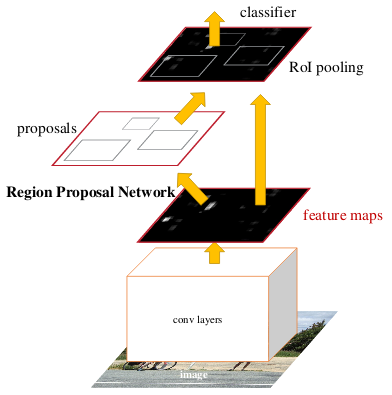
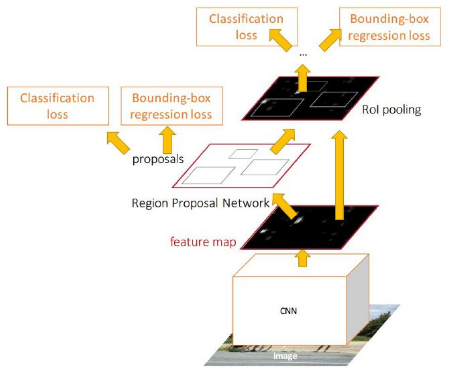
chore: Update faster rcnn info in post

Changed region(s): [[0.0, 0.0, 1.0, 1.0]]

diff --git a/_posts/2019-08-23-quick-intro-to-instance-segmentation.md b/_posts/2019-08-23-quick-intro-to-instance-segmentation.md
@@ -21,15 +21,45 @@ Before getting into Mask R-CNN, let's take a look at Faster R-CNN.
 
 ## Faster R-CNN
 
-Faster R-CNN consists of two stages. The *first stage* is a deep convolutional network with **Region Proposal Network (RPN)**, which proposes regions of interest (ROI) from the feature maps output by the convolutional neural network. The CNN used in this case, often called **backbone**, is usually a pretrained network such as ResNet101. The classification layers from the backbone network are removed so as to used it as a feature extractor. This also makes the network fully convolutional, thus it can take any input size image.
+Faster R-CNN consists of two stages.
 
-The RPN uses a sliding window method to get relevant anchor boxes *(the fixed sized boundary boxes that are placed throughout the image and have different shapes and sizes so as to save the time to search)* from the feature maps. It then does a binary classification that the anchor has object or not (into classes fg or bg), and bounding box regression to refine bounding boxes. The anchor is classified as positive label (fg class) if the anchor(s) has highest Intersection-over-Union (IoU) with the ground truth box, or, it has IoU overlap greater than 0.7 with the ground truth. 
+### Stage I
+
+The *first stage* is a deep convolutional network with **Region Proposal Network (RPN)**, which proposes regions of interest (ROI) from the feature maps output by the convolutional neural network i.e.
+
+The input image is fed into a CNN, often called **backbone**, which is usually a pretrained network such as ResNet101. The classification (fully connected) layers from the backbone network are removed so as to use it as a feature extractor. This also makes the network fully convolutional, thus it can take any input size image.
+
+<img src="/img/remove_fc_layers.png" style="display: block; margin: auto; width: auto; max-width: 100%;">
+
+The RPN uses a sliding window method to get <abbr title="boxes having high probability of containing object">relevant anchor boxes</abbr> *(the precalculated fixed sized bounding boxes having different sizes that are placed throughout the image that represent the approximate bbox predictions so as to save the time to search)* from the feature maps. 
+
+It then does a binary classification that the anchor has object or not (into classes <abbr title="foreground">fg</abbr> or <abbr title="background">bg</abbr>), and bounding box regression to refine bounding boxes. The anchor is classified as positive label (fg class) if the anchor(s) has highest Intersection-over-Union (IoU) with the ground truth box, or, it has IoU overlap greater than 0.7 with the ground truth.
+
+> At each sliding window location, a number of proposals (max `k`) are predicted corresponding to anchor boxes. So the `reg` layer has `4k` outputs encoding the coordinates of `k` boxes, and the `cls` layer outputs `2k` scores that estimate probability of *object* or *not object* for each proposal.
+
+<img src="/img/rpn.png" style="display: block; margin: auto; width: auto; max-width: 100%;">
+
+> In Faster R-CNN, k=9 anchors representing 3 scales and 3 aspect ratios of anchor boxes are present at *each* sliding window position. Thus, for a convolutional feature map of a size `W×H` *(typically∼2,400)*, there are `WHk` anchors in total.
 
 Hence, at this stage, there are two losses i.e. bbox binary classification loss, $$L_{cls_1}$$  and bbox regression loss, $$L_{bbox_1}$$.
 
+The top *(positive)* anchors output by the RPN, called proposals or Region of Interest (RoI) are fed to the next stage.
+
 <img src="/img/faster_rcnn.png" style="display: block; margin: auto; width: auto; max-width: 100%;">
 
-The *second stage* is essentially **Fast R-CNN**, which using RoI pooling layer, extracts feature maps from each RoI, and performs classification and bounding box regression. The RoI pooling layer converts feature maps into same size to be fed into a fully connected layer, which performs softmax classification of objects into classes (e.g. car, person, bg),  and the same bounding box regression to refine bounding boxes.
+### Stage II
+
+The *second stage* is essentially **Fast R-CNN**, which using RoI pooling layer, extracts feature maps from each RoI, and performs classification and bounding box regression. The RoI pooling layer converts the section of feature map corresponding to each *(variable sized)* RoI into fixed size to be fed into a fully connected layer.
+
+For example, say, for a 8x8 feature map, the RoI is 7x5 in the bottom left corner, and the RoI pooling layer outputs a fixed size 2x2 feature map. Then, the following operations would be performed:
+
+* Divide the RoI into 2x2.
+* Perform max-pooling i.e. take maximum value from each section.
+
+<img src="/img/roi_pooling.gif" style="display: block; margin: auto; width: 80%; max-width: 100%;">
+
+The fc layer further performs softmax classification of objects into classes (e.g. car, person, bg),  and the same bounding box regression to refine bounding boxes.
+
 
 Thus, at the second stage as well, there are two losses i.e. object classification loss (into multiple classes), $$L_{cls_2}$$, and bbox regression loss, $$L_{bbox_2}$$.
 
@@ -66,7 +96,7 @@ Mask R-CNN also utilizes a more effective backbone network architecture called *
 
 > Faster R-CNN with an FPN backbone extracts RoI features from different levels of the feature  pyramid  according  to  their  scale,  but  otherwise  the rest of the approach is similar to vanilla ResNet.
 
-As discussed above, RoIPool layer extracts small feature maps from each RoI. **RoIAlign** is an improvement over the RoIPool operation. It uses bilinear interpolation to smooth the RoIs (which has different aspect sizes) into fixed size feature vectors without using *quantization*, which is used in RoIPool. 
+As discussed above, RoIPool layer extracts small feature maps from each RoI. **RoIAlign** is an improvement over the RoIPool operation. It uses bilinear interpolation to smooth the RoIs (which has different aspect sizes) into fixed size feature vectors without using *quantization* used in RoIPool. 
 
 *To be added: more description on FPN, RoIAlign* ...
 
@@ -161,3 +191,5 @@ Notice that, here, both the instances of cats are segmented separately, unlike [
 <a></a>3. [CS231n: Convolutional Neural Networks for Visual Recognition (image source)](http://cs231n.stanford.edu/)  
 <a></a>4. [Faster R-CNN paper](https://arxiv.org/pdf/1506.01497.pdf)  
 <a></a>5. [Mask R-CNN image source](http://lernapparat.de/static/artikel/pytorch-jit-android/thomas_viehmann.pytorch_jit_android_2018-12-11.pdf)  
+<a></a>6. [RoIPool image source](https://deepsense.ai/region-of-interest-pooling-explained/)  
+<a></a>7. [Mask R-CNN presented by Jiageng Zhang, Jingyao Zhan, Yunhan Ma](https://cseweb.ucsd.edu/classes/sp18/cse252C-a/CSE252C_20180509.pdf)
